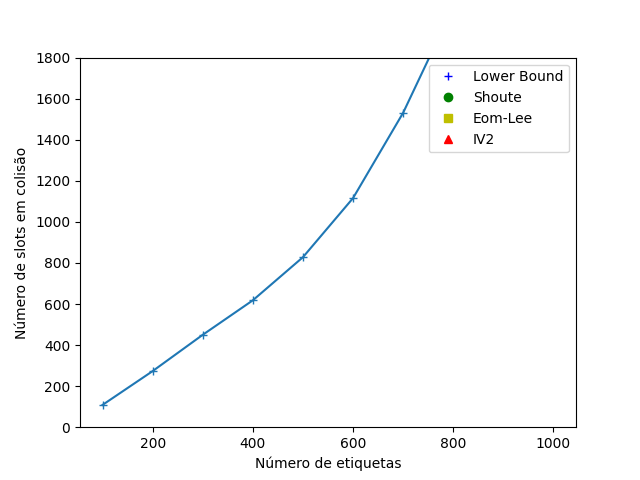
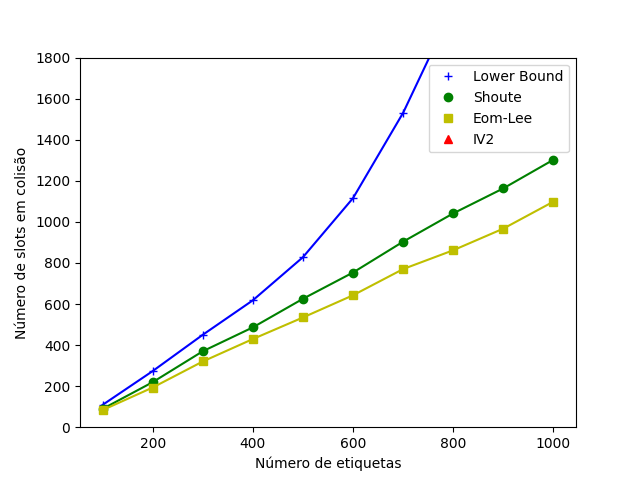
fix plots

diff --git a/plots/main.py b/plots/main.py
@@ -30,11 +30,17 @@ class MarkerHandler(HandlerBase):
         return [plt.Line2D([width/2], [height/2.],ls="",
                            marker=tup[1],color=tup[0], transform=trans)]
 
+def get_estimator_rows(estimator):
+    return df['estimador'] == estimator
 def plot_total_slots(df):
-    plt.plot(df['ntags'], df[df['estimador'] == 'lb']['total_slots'], marker='+')
-    #     plt.plot(df['ntags'], df[df['estimador'] == 'shoute']['total_slots'], marker='o')
-    #     plt.plot(df['ntags'], df[df['estimador'] == 'eom-lee']['total_slots'], marker='s')
-    #     plt.plot(df['ntags'], df[df['estimador'] == 'iv2']['total_slots'], marker='^')
+    lb_estimators = get_estimator_rows('lb')
+    shoute_estimators = get_estimator_rows('shoute')
+    eomlee_estimators = get_estimator_rows('eom-lee')
+    iv2_estimators = get_estimator_rows('iv2')
+    plt.plot(df[lb_estimators]['ntags'], df[lb_estimators]['total_slots'], marker='+', color='b')
+    plt.plot(df[shoute_estimators]['ntags'], df[shoute_estimators]['total_slots'], marker='o', color='g')
+    plt.plot(df[eomlee_estimators]['ntags'], df[eomlee_estimators]['total_slots'], marker='s', color='y')
+    plt.plot(df[iv2_estimators]['ntags'], df[iv2_estimators]['total_slots'], marker='^', color='r')
     ax.legend(list(zip(list_color,list_mak)), list_lab, handler_map={tuple:MarkerHandler()})
     ax.set_ylim([0,3500])
     ax.set_xlabel("Número de etiquetas")
@@ -42,10 +48,14 @@ def plot_total_slots(df):
     save_and_clf(os.path.join(plots_path, "total_slots.png"))
 
 def plot_total_collisions(df):
-    plt.plot(df['ntags'], df[df['estimador'] == 'lb']['total_collisions_slots'], marker='+')
-    #     plt.plot(df['ntags'], df[df['estimador'] == 'shoute']['total_collisions_slots'], marker='o')
-    #     plt.plot(df['ntags'], df[df['estimador'] == 'eom-lee']['total_collisions_slots'], marker='s')
-    #     plt.plot(df['ntags'], df[df['estimador'] == 'iv2']['total_collisions_slots'], marker='^')
+    lb_estimators = get_estimator_rows('lb')
+    shoute_estimators = get_estimator_rows('shoute')
+    eomlee_estimators = get_estimator_rows('eom-lee')
+    iv2_estimators = get_estimator_rows('iv2')
+    plt.plot(df[lb_estimators]['ntags'], df[lb_estimators]['total_collisions_slots'], marker='+', color='b')
+    plt.plot(df[shoute_estimators]['ntags'], df[shoute_estimators]['total_collisions_slots'], marker='o', color='g')
+    plt.plot(df[eomlee_estimators]['ntags'], df[eomlee_estimators]['total_collisions_slots'], marker='s', color='y')
+    plt.plot(df[iv2_estimators]['ntags'], df[iv2_estimators]['total_collisions_slots'], marker='^', color='r')
     ax = plt.gca()
     ax.legend(list(zip(list_color,list_mak)), list_lab, handler_map={tuple:MarkerHandler()})
     ax.set_ylim([0,1800])
@@ -54,10 +64,14 @@ def plot_total_collisions(df):
     save_and_clf(os.path.join(plots_path, "total_collisions.png"))
 
 def plot_total_empty_slots(df):
-    plt.plot(df['ntags'], df[df['estimador'] == 'lb']['total_empty_slots'], marker='+')
-    #     plt.plot(df['ntags'], df[df['estimador'] == 'shoute']['total_empty_slots'], marker='o')
-    #     plt.plot(df['ntags'], df[df['estimador'] == 'eom-lee']['total_empty_slots'], marker='s')
-    #     plt.plot(df['ntags'], df[df['estimador'] == 'iv2']['total_empty_slots'], marker='^')
+    lb_estimators = get_estimator_rows('lb')
+    shoute_estimators = get_estimator_rows('shoute')
+    eomlee_estimators = get_estimator_rows('eom-lee')
+    iv2_estimators = get_estimator_rows('iv2')
+    plt.plot(df[lb_estimators]['ntags'], df[lb_estimators]['total_empty_slots'], marker='+', color='b')
+    plt.plot(df[shoute_estimators]['ntags'], df[shoute_estimators]['total_empty_slots'], marker='o', color='g')
+    plt.plot(df[eomlee_estimators]['ntags'], df[eomlee_estimators]['total_empty_slots'], marker='s', color='y')
+    plt.plot(df[iv2_estimators]['ntags'], df[iv2_estimators]['total_empty_slots'], marker='^', color='r')
     ax = plt.gca()
     ax.legend(list(zip(list_color,list_mak)), list_lab, handler_map={tuple:MarkerHandler()})
     ax.set_ylim([0,1100])
@@ -66,13 +80,16 @@ def plot_total_empty_slots(df):
     save_and_clf(os.path.join(plots_path, "total_empty_slots.png"))
 
 def plot_total_time(df):
-    plt.plot(df['ntags'], df[df['estimador'] == 'lb']['total_empty_slots'], marker='+')
-    #     plt.plot(df['ntags'], df[df['estimador'] == 'shoute']['total_empty_slots'], marker='o')
-    #     plt.plot(df['ntags'], df[df['estimador'] == 'eom-lee']['total_empty_slots'], marker='s')
-    #     plt.plot(df['ntags'], df[df['estimador'] == 'iv2']['total_empty_slots'], marker='^')
+    lb_estimators = get_estimator_rows('lb')
+    shoute_estimators = get_estimator_rows('shoute')
+    eomlee_estimators = get_estimator_rows('eom-lee')
+    iv2_estimators = get_estimator_rows('iv2')
+    plt.plot(df[lb_estimators]['ntags'], df[lb_estimators]['time'], marker='+', color='b')
+    plt.plot(df[shoute_estimators]['ntags'], df[shoute_estimators]['total_empty_slots'], marker='o', color='g')
+    plt.plot(df[eomlee_estimators]['ntags'], df[eomlee_estimators]['total_empty_slots'], marker='s', color='y')
+    plt.plot(df[iv2_estimators]['ntags'], df[iv2_estimators]['total_empty_slots'], marker='^', color='r')
     ax = plt.gca()
     ax.legend(list(zip(list_color,list_mak)), list_lab, handler_map={tuple:MarkerHandler()})
-    ax.set_ylim([0,10])
     ax.set_xlabel("Número de etiquetas")
     ax.set_ylabel("Tempo para identificação")
     save_and_clf(os.path.join(plots_path, "total_time.png"))
